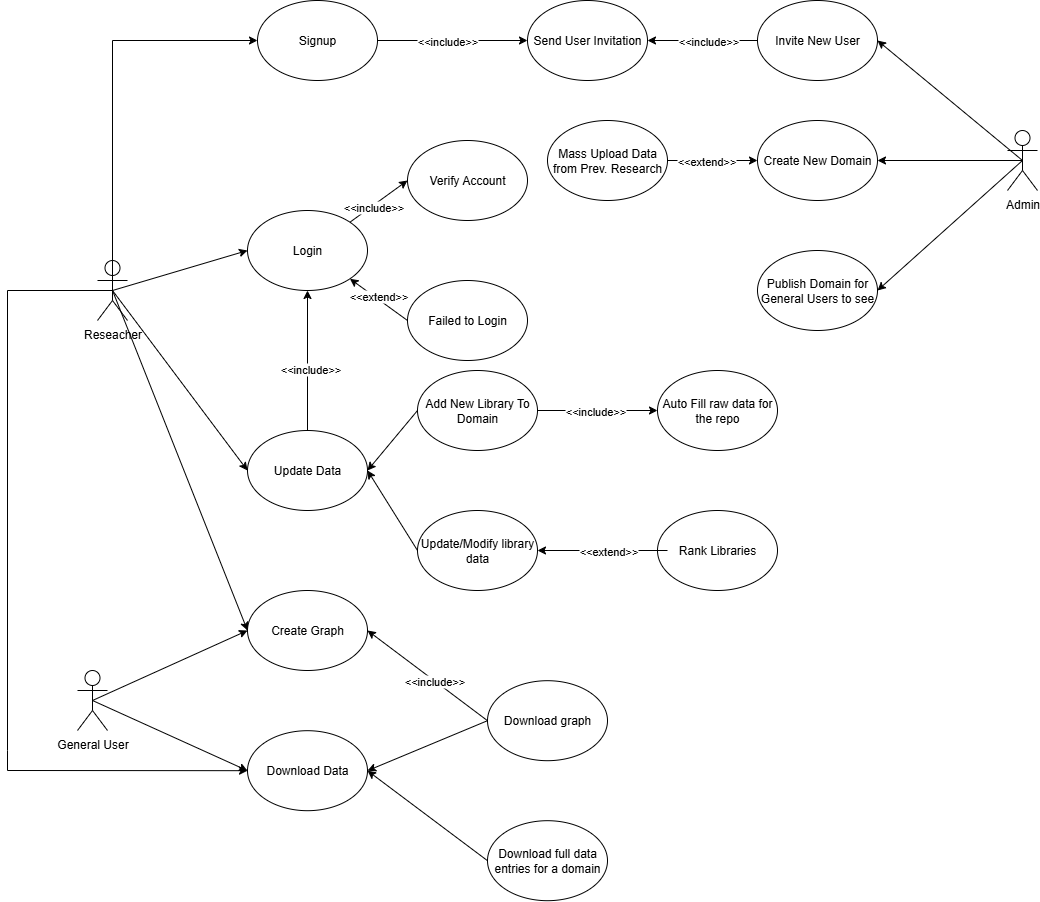
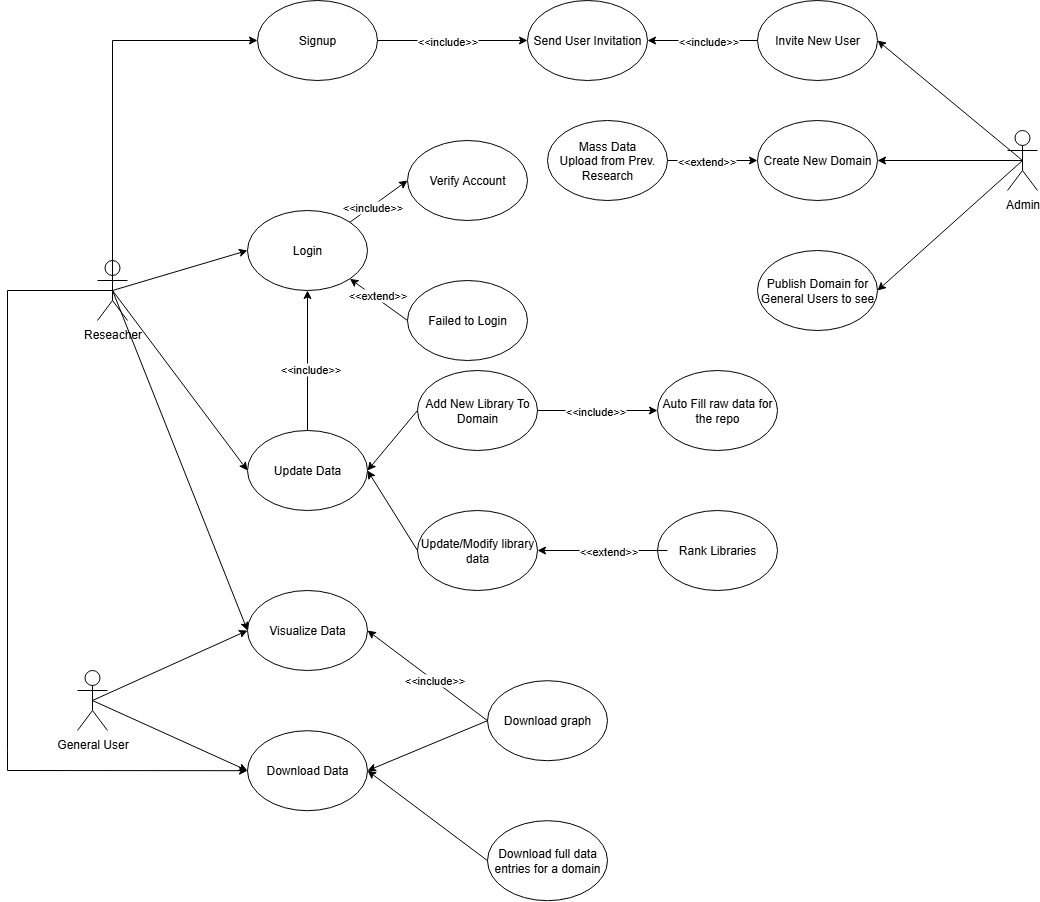
Fix/m2 srs ghena (#102)
* Update constraint and functional requirement based on stakeholder feedback.

* Non-Functional Requirements updated based on feedback

* Added new usecase diagram

diff --git a/docs/SRS/SRS.tex b/docs/SRS/SRS.tex
@@ -163,8 +163,8 @@ N/A
 \end{itemize}
 \subsection{Schedule Constraints}
 \begin{itemize}
-  \item Tool must be built by April 6, 2026
-  \item Research paper must be written and published by April 6, 2026
+  \item Tool must be built by Febuary 2, 2026
+  \item Research paper must be written and submitted by April 6, 2026
 \end{itemize}
 \subsection{Budget Constraints}
 \begin{itemize}
@@ -172,7 +172,7 @@ N/A
 \end{itemize}
 \subsection{Enterprise Constraints}
 \begin{itemize}
-  \item Project will be built using Microsoft related services.
+  N/A
 \end{itemize}
 
 \section{Naming Conventions and Terminology}
@@ -386,6 +386,7 @@ The system will provide the following core functionality:
     \item Accounts can only be created by an administrator invitation.
     \item Enforce Role-Based Access Control (RBAC).
     \item Ensure only authenticated users can modify data.
+    \item Anyone should be able to view available data.
   \end{itemize}
   \item \textbf{Data Integrity and Auditing:} Maintain an audit trail for all data entries, logging when a change is made.
   \item \textbf{Core Data Operations:} Facilitate the storing, updating, and retrieving of all core research entities: research domains, libraries, and collected metrics.
@@ -501,9 +502,9 @@ Important things to keep in mind when looking at the Use Case Diagram:
 \section{Usability and Humanity Requirements}
 \subsection{Ease of Use Requirements}
 \begin{enumerate}[label=UH-EU\arabic*]
-  \item The primary navigational structure should be clearly defined and constantly available, with no prior training required for basic data viewing and download.
-  \item Each library metric must have help icon that would tell the user what data type would be accepted.
-  \item All errors will give clear and concise explanation.
+  \item The primary navigation menu must be persistently available on the left side or top of every screen, and basic actions (e.g., viewing data, downloading reports) must be achievable within a maximum of three clicks/steps for new users.
+  \item All data input fields for library metrics must include a tooltip (activated on hover) that explicitly states the required data type and format (e.g., "Numeric value, max 3 decimal places" or "Date in YYYY-MM-DD format").
+  \item All system error messages (validation failures, access denied) must be written in plain language, avoid technical jargon, and provide explicit instructions on how the user can resolve the issue (e.g., "Error: Please verify your username and try again" instead of "401 unauthorized").
 \end{enumerate}
 \subsection{Personalization and Internationalization Requirements}
 N/A
@@ -527,7 +528,6 @@ N/A
 \section{Performance Requirements}
 \subsection{Speed and Latency Requirements}
 \begin{enumerate}[label=PR-SL\arabic*]
-  \item All key data viewing and dashboard pages must load completely and become interactive within 3 seconds.
   \item The system must finish the AHP ranking calculation for a standard domain in less than ten seconds.
 \end{enumerate}
 \subsection{Safety-Critical Requirements}
@@ -547,7 +547,8 @@ N/A
 \subsection{Capacity Requirements}
 \begin{enumerate}[label=PR-CR\arabic*]
   \item The system must be able to accommodate up to 20 concurrent active users (logged in and doing operations) with no visible performance decrease.
-  \item The database must be constructed to accommodate at least 10 different study domains.
+  \item The database must be able to store at least 70 different study domains.
+  \item The system's architecture must support increasing the underlying database size (up to the maximum capacity defined by the Capacity Requirements) without resulting in database connection errors, timeouts, or data integrity issues.
 \end{enumerate}
 \subsection{Scalability or Extensibility Requirements}
 \begin{enumerate}[label=PR-SE\arabic*]
@@ -556,7 +557,8 @@ N/A
 \end{enumerate}
 \subsection{Longevity Requirements}
 \begin{enumerate}[label=PR-LR\arabic*]
-  \item The system must be capable of running without the requirement for maintenance for two years. 
+  \item The system must be capable of running without the requirement for maintenance for two years.
+  \item Database scaling operations (e.g. migrating to a larger server instance) must be achievable entirely by modifying the system's infrastructure configuration. Such scaling operations must not require any changes to the core application code base.
 \end{enumerate}
 
 \section{Operational and Environmental Requirements}
